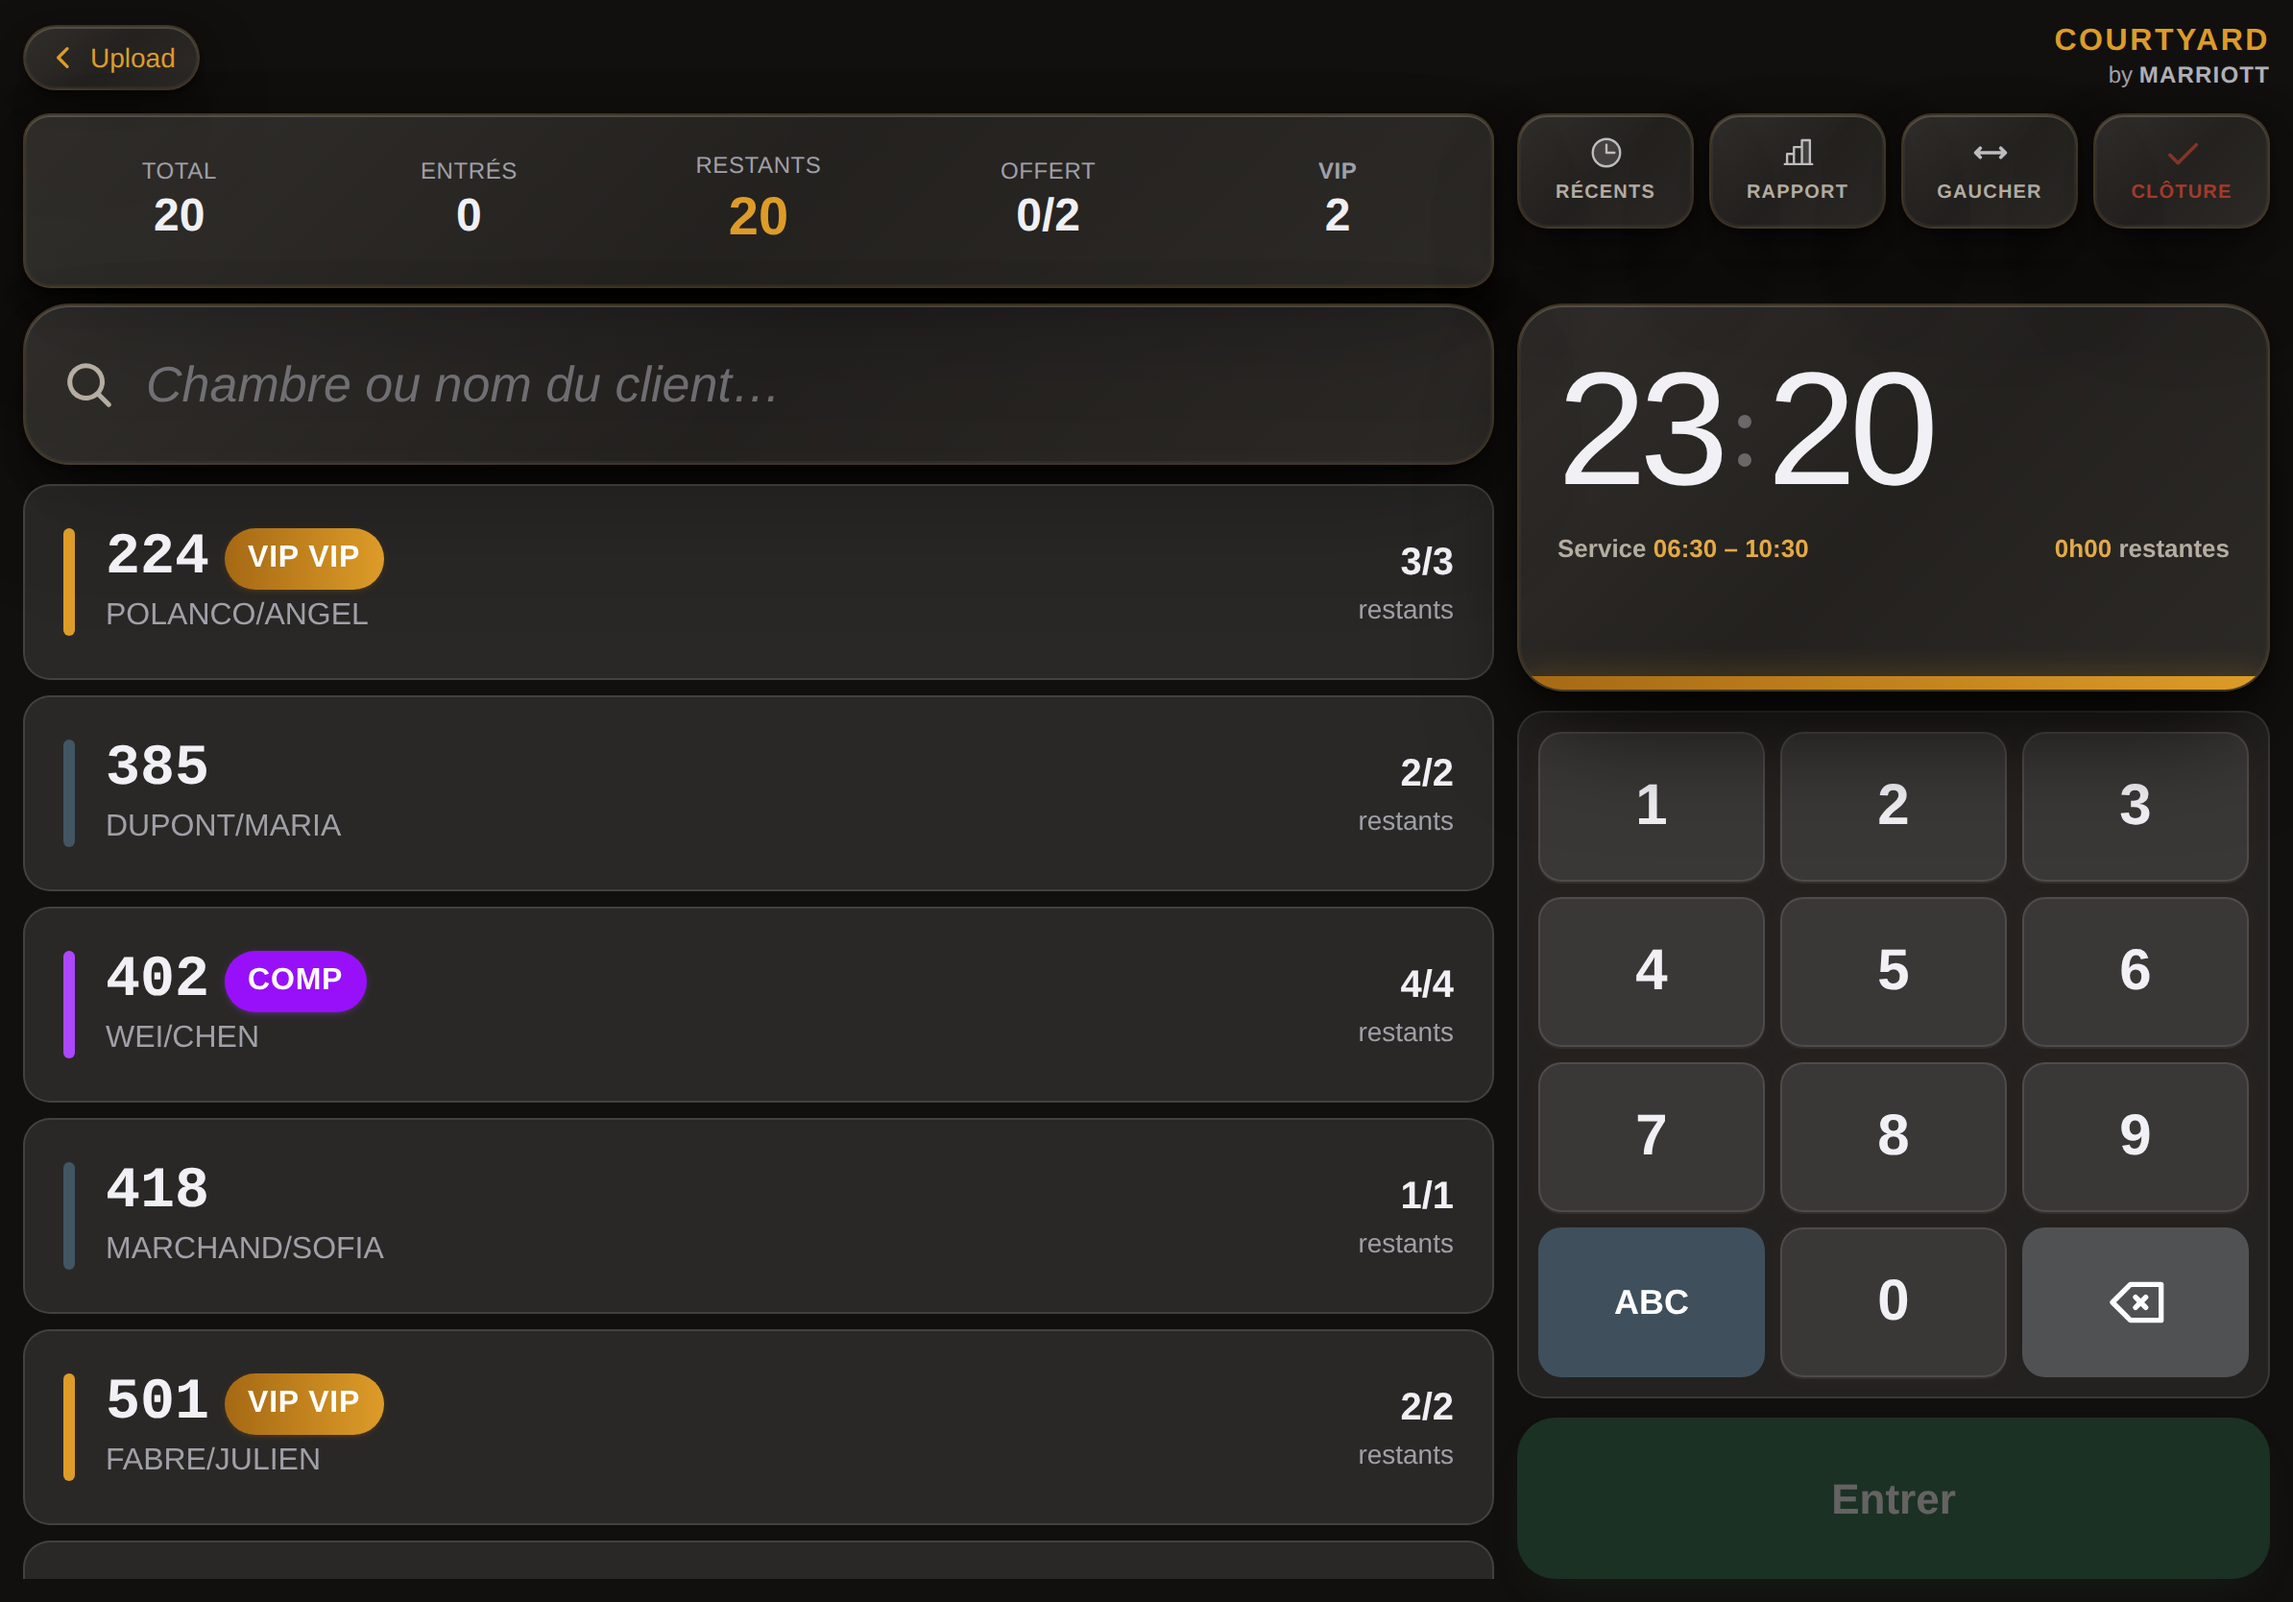
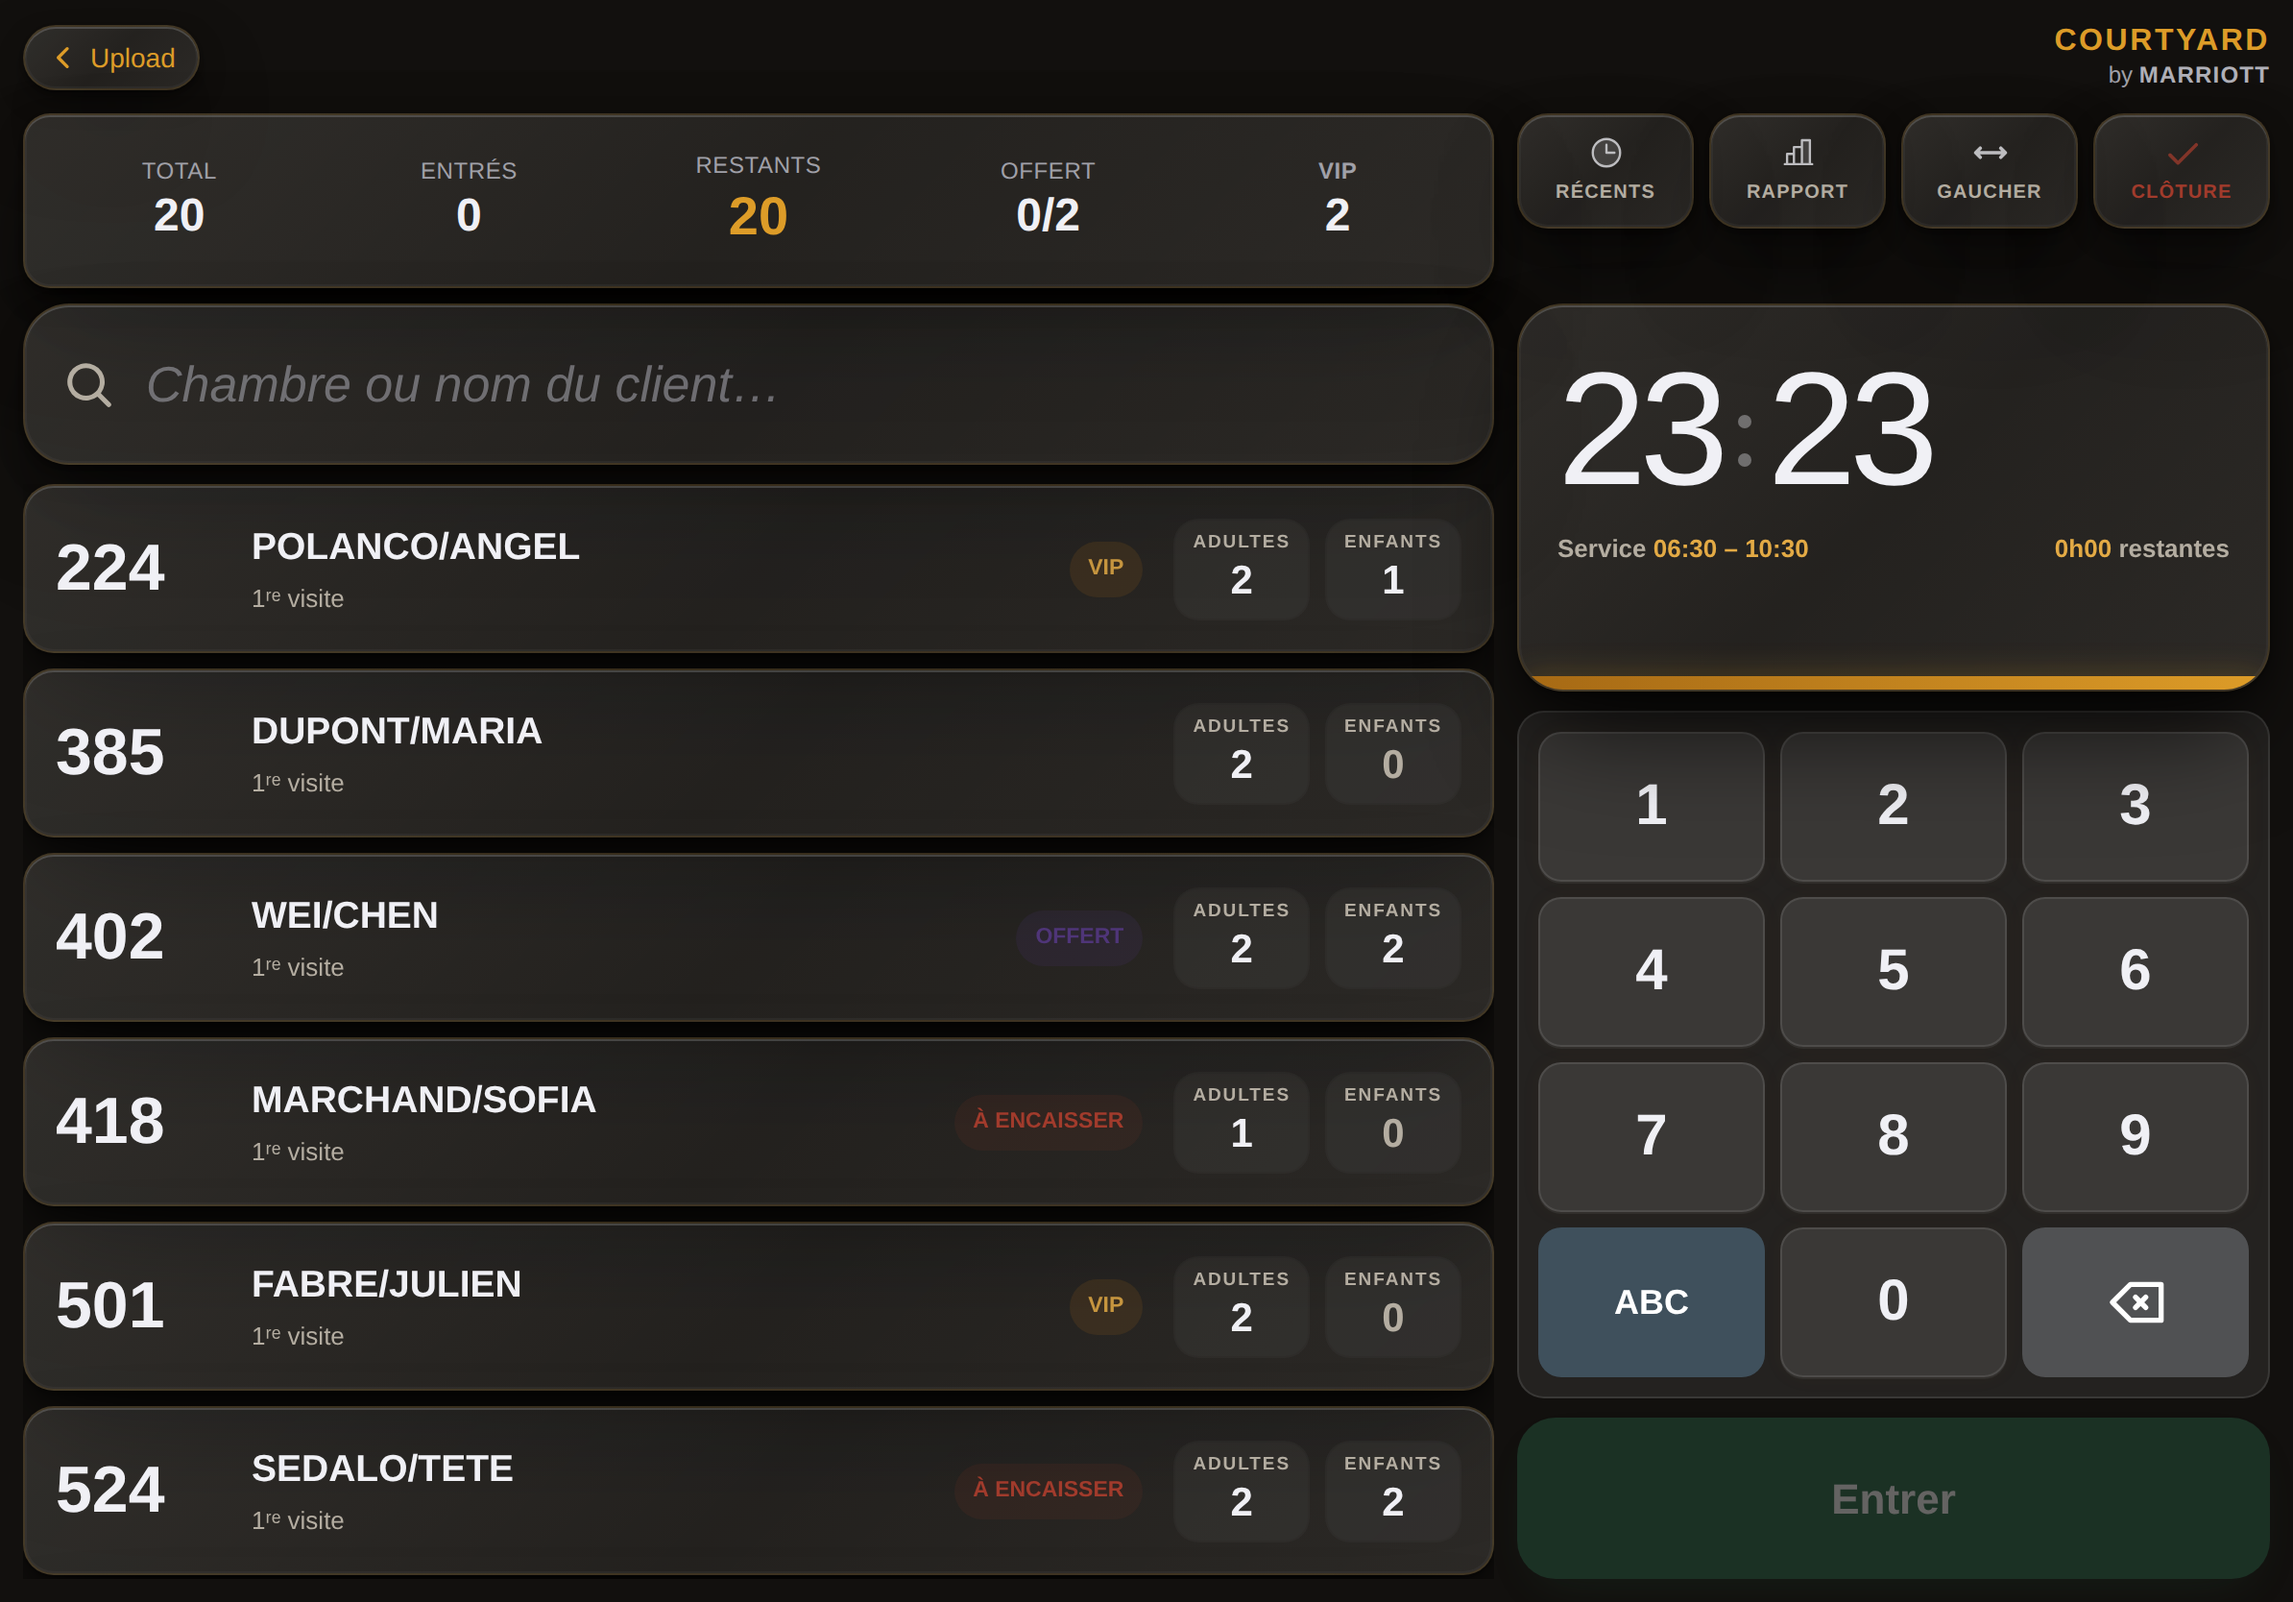
Search v2: room rows match the mockup
Rows carry the room number at 34px, the guest name, first-visit or
regular status, and adults/children as their own boxes — the same shape
the check-in screen uses, so both screens agree on what a room holds.

Only the states that change what reception does next carry colour: A
ENCAISSER stays full strength, VIP and OFFERT sit back at 80-85%. The old
card printed the VIP level twice and gave OFFERT a saturated purple pill
louder than the payment warning beside it.

Claude-Session: https://claude.ai/code/session_01PvjN1yrwGssKpuvjG4vcfR

Changed region(s): [[0.0, 0.3118, 0.6508, 0.9976], [0.8057, 0.2494, 0.8677, 0.3118], [0.5268, 0.3118, 0.5578, 0.3429]]

diff --git a/src/components/SuggestionCard.tsx b/src/components/SuggestionCard.tsx
@@ -1,6 +1,6 @@
 "use client";
 import { Client, CheckInRecord } from "@/lib/types";
-import { getRemainingForRoom, isComp } from "@/lib/utils";
+import { getRemainingForRoom, isComp, needsPaymentChoice } from "@/lib/utils";
 import { findGuest, getGuestBadge, BADGE_CONFIG } from "@/lib/guests";
 import { useApp } from "@/contexts/AppContext";
 
@@ -26,65 +26,70 @@ export default function SuggestionCard({
   const badge = guest ? getGuestBadge(guest.visitCount) : null;
   const badgeConf = badge ? BADGE_CONFIG[badge] : null;
 
+  const needsPay = needsPaymentChoice(client);
+  const visits = guest?.visitCount ?? 0;
+
   return (
     <button
       onClick={() => onSelect(client.roomNumber, clientIndex)}
-      className={`w-full text-left p-4 md:p-5 rounded-[14px] flex items-center gap-4 transition-all active:scale-[0.98] ${
-        allCheckedIn
-          ? "opacity-50 bg-green-50/60 dark:bg-green-900/10 border border-green-200/60 dark:border-green-800/30 backdrop-blur-sm"
-          : "glass hover:bg-white/80 dark:hover:bg-white/8"
-      }`}
+      data-role="room-row"
+      data-room={client.roomNumber}
+      className={`w-full text-left rounded-[16px] px-4 py-3 flex items-center gap-4 min-h-[88px]
+        glass-liquid active:scale-[0.995] transition-transform ${allCheckedIn ? "opacity-50" : ""}`}
     >
-      <div
-        className={`w-1.5 h-12 md:h-14 rounded-full ${
-          client.isVip ? "bg-brand-light" : comp ? "bg-purple-500" : "bg-teal"
-        }`}
-      />
-      <div className="flex-1 min-w-0">
-        <div className="flex items-center gap-2">
-          <span className="text-2xl md:text-3xl font-bold font-mono text-dark">
-            {client.roomNumber}
+      <span className="text-[34px] font-black tabular-nums leading-none min-w-[86px]">
+        {client.roomNumber}
+      </span>
+
+      <span className="flex-1 min-w-0">
+        <span className="block text-[19.5px] font-bold truncate">{client.name}</span>
+        <span className="block text-[13px] mt-0.5" style={{ color: "var(--tab-idle)" }}>
+          {allCheckedIn
+            ? "Tous entrés"
+            : visits > 0
+              ? `Habitué · ${visits}ᵉ séjour`
+              : "1ʳᵉ visite"}
+        </span>
+      </span>
+
+      {/* Only the states that change what reception does next carry colour. */}
+      <span className="flex items-center gap-2 shrink-0">
+        {comp && (
+          <span className="text-[11.5px] font-black px-2.5 py-1.5 rounded-full"
+            style={{ background: "rgba(90,59,143,.16)", color: "var(--aur-pm-points)", opacity: .8 }}>
+            OFFERT
           </span>
-          {client.isVip && (
-            <span className="text-sm md:text-base bg-gradient-to-r from-brand to-brand-light text-white px-3 py-1 rounded-full font-black shadow-sm shadow-brand/20 tracking-wide">
-              VIP{client.vipLevel ? ` ${client.vipLevel}` : ""}
-            </span>
-          )}
-          {comp && (
-            <span className="text-sm md:text-base bg-purple-600 text-white px-3 py-1 rounded-full font-black shadow-sm shadow-purple-500/20 tracking-wide">
-              COMP
-            </span>
-          )}
-          {allCheckedIn && (
-            <span className="text-xs md:text-sm bg-green-100/70 dark:bg-green-900/30 text-green-700 dark:text-green-300 px-2 py-0.5 rounded-full font-medium backdrop-blur-sm">
-              DONE
-            </span>
-          )}
-        </div>
-        <div className="flex items-center gap-1.5">
-          <span className="text-sm md:text-base text-muted truncate">{client.name}</span>
-          {badgeConf && badge !== "new" && (
-            <span className={`text-[9px] md:text-[10px] ${badgeConf.color} ${badgeConf.bg} px-1.5 py-0.5 rounded-full font-bold shrink-0`}>
-              {lang === "fr" ? badgeConf.labelFr : badgeConf.label}
-              {guest && guest.visitCount > 1 ? ` ×${guest.visitCount}` : ""}
-            </span>
-          )}
-          {guest?.birthday && (() => {
-            const today = new Date();
-            const [m, d] = guest.birthday!.split("-").map(Number);
-            if (today.getMonth() + 1 === m && today.getDate() === d) {
-              return <span className="text-sm shrink-0">🎂</span>;
-            }
-            return null;
-          })()}
-        </div>
-      </div>
-      <div className="text-right shrink-0">
-        <div className="text-lg md:text-xl font-bold text-dark">
-          {remaining}/{total}
-        </div>
-        <div className="text-xs md:text-sm text-muted">{t("card.remaining")}</div>
-      </div>
+        )}
+        {client.isVip && (
+          <span className="text-[11.5px] font-black px-2.5 py-1.5 rounded-full"
+            style={{ background: "var(--aur-gold-soft-2)", color: "var(--brand-ink)", opacity: .85 }}>
+            {client.vipLevel || "VIP"}
+          </span>
+        )}
+        {needsPay && (
+          <span className="text-[11.5px] font-black px-2.5 py-1.5 rounded-full"
+            style={{ background: "var(--aur-bad-soft)", color: "var(--aur-bad)" }}>
+            À ENCAISSER
+          </span>
+        )}
+      </span>
+
+      {/* Adults and children as their own boxes — the same shape the check-in
+          screen uses, so both screens agree on what a room holds. */}
+      <span className="flex gap-2 shrink-0">
+        {[
+          { k: "Adultes", v: client.adults },
+          { k: "Enfants", v: client.children },
+        ].map((b) => (
+          <span key={b.k} className="min-w-[70px] text-center rounded-[13px] px-2.5 py-1.5"
+            style={{ background: "rgba(255,255,255,.04)", boxShadow: "inset 0 0 0 1px rgba(0,0,0,.05)" }}>
+            <span className="block text-[9.5px] font-black uppercase tracking-[0.10em]"
+              style={{ color: "var(--tab-idle)" }}>{b.k}</span>
+            <span className="block text-[21px] font-bold tabular-nums leading-tight"
+              style={{ color: b.v ? undefined : "var(--tab-idle)" }}>{b.v}</span>
+          </span>
+        ))}
+      </span>
     </button>
   );
 }
